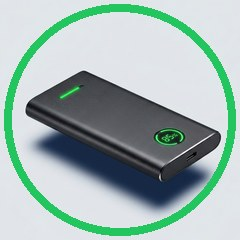
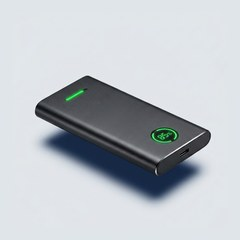
One green ring per category; menu shows the pictures without a ring; strip freezes on selection

Changed region(s): [[0.0, 0.0, 0.9917, 0.9917]]

diff --git a/index.html b/index.html
@@ -126,8 +126,9 @@ main{max-width:1100px; margin:0 auto; padding:0 14px 110px}
 .smrow.on{background:var(--ink); color:#fff}
 .smrow.on b{background:rgba(255,255,255,.18); color:#fff}
 .smname{flex:1; text-align:right}
-.catimg{width:42px; height:42px; flex:0 0 auto; border-radius:50%; object-fit:cover; background:#fff; border:2px solid #22C55E}
-.catimg.home{display:flex; align-items:center; justify-content:center; font-size:19px; border:2px solid var(--line)}
+.catimg{width:100%; height:100%; object-fit:cover; border:0; border-radius:50%}
+.smimg{width:44px; height:44px; flex:0 0 auto; border-radius:10px; object-fit:cover; background:#fff}
+.smimg.home{display:flex; align-items:center; justify-content:center; font-size:22px; background:#EEF2F8}
 .dhead{display:flex; align-items:center; justify-content:space-between; padding:14px 16px; border-bottom:1px solid var(--line)}
 .dhead h3{font-size:18px}
 .dlist{overflow-y:auto; padding:6px 16px; flex:1}
@@ -428,6 +429,7 @@ function menuLinks(){
     ...DB.categories.map(c => ({id: c.id, name: c.name, n: DB.products.filter(p => p.cat === c.id).length}))
   ];
   return rows.map(r => `<button class="smrow ${view.cat === r.id ? "on" : ""}" data-menu="${r.id}">
+      ${r.id === "home" ? `<span class="smimg home">🏠</span>` : `<img class="smimg" src="cats/cat-${r.id}.jpg" alt="" loading="lazy" onerror="this.style.display='none'">`}
       <span class="smname">${esc(r.name)}</span>${r.n === null ? "" : `<b>${r.n}</b>`}
     </button>`).join("");
 }
@@ -723,13 +725,14 @@ function card(p){
 function bindCustomer(){
   const strip = document.querySelector(".catstrip");
   if(strip){
-    centerActiveCatSoon();
+    if(catScroll != null) strip.scrollLeft = catScroll;   /* השורה נשארת בדיוק איפה שהיא */
     strip.addEventListener("scroll", () => { catScroll = strip.scrollLeft; }, {passive: true});
   }
   document.querySelectorAll("[data-cat]").forEach(b => b.onclick = () => {
+    const st = document.querySelector(".catstrip");
+    if(st) catScroll = st.scrollLeft;      /* מקפיאים את מיקום השורה */
     view.cat = b.dataset.cat; view.q = ""; view.sub = null;
     render(); window.scrollTo(0, 0);
-    centerActiveCatSoon();          /* העיגול הנבחר נשאר מול העיניים */
   });
   document.querySelectorAll("[data-subchip]").forEach(b => b.onclick = () => {
     view.sub = b.dataset.subchip || null; render();
@@ -762,7 +765,7 @@ function bindCustomer(){
   $("#closemenu").onclick = closeMenu;
   document.querySelectorAll("[data-menu]").forEach(b => b.onclick = () => {
     view.cat = b.dataset.menu; view.sub = null; view.q = "";
-    closeMenu(); render(); window.scrollTo(0, 0); centerActiveCatSoon();
+    closeMenu(); render(); window.scrollTo(0, 0); centerActiveCatSoon();  /* רק אם היא מחוץ לתצוגה */
   });
 }
 function renderProduct(){
@@ -975,7 +978,7 @@ function renderAdmin(){
   const app = $("#app");
   if(!adminAuthed){
     app.innerHTML = `
-      <div class="adminbar">אזור ניהול – חי שיווק · גרסה 29</div>
+      <div class="adminbar">אזור ניהול – חי שיווק · גרסה 30</div>
       <div class="loginbox">
         <h2>כניסת מנהל</h2>
         <input id="pw" type="password" inputmode="numeric" placeholder="סיסמה">
@@ -1017,7 +1020,7 @@ function renderAdmin(){
       </div>
     </div>`).join("");
   app.innerHTML = `
-    <div class="adminbar">אזור ניהול – חי שיווק · גרסה 29</div>
+    <div class="adminbar">אזור ניהול – חי שיווק · גרסה 30</div>
     <div class="awrap">
       <div class="abtns">
         <button class="abtn g" id="addp">+ מוצר חדש</button>
@@ -1243,7 +1246,7 @@ function openHistory(){
 }
 function renderTokenGate(){
   $("#app").innerHTML = `
-    <div class="adminbar">אזור ניהול – חי שיווק · גרסה 29</div>
+    <div class="adminbar">אזור ניהול – חי שיווק · גרסה 30</div>
     <div class="loginbox">
       <h2>חיבור ראשוני</h2>
       <p style="font-size:14px;color:var(--muted);margin-bottom:10px">במכשיר הזה צריך פעם אחת להדביק את מפתח הגישה (מתחיל ב-github_pat)</p>
@@ -1748,7 +1751,7 @@ document.addEventListener("pointerdown", () => {
     history.pushState({}, "");
   }
 }, true);
-const APP_VER = "29";
+const APP_VER = "30";
 /* אם פורסמה גרסה חדשה – טוענים אותה מיד, בלי שהמשתמש יצטרך לרענן */
 async function ensureLatest(){
   try{
